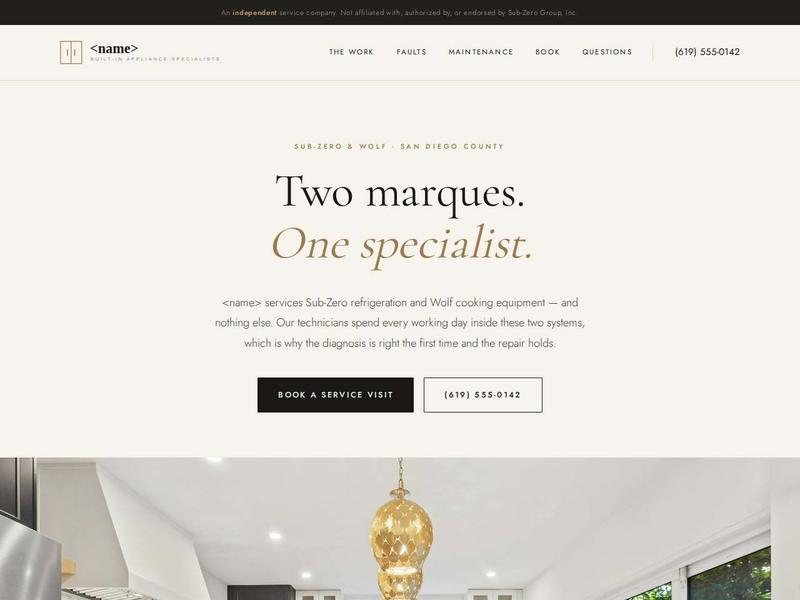
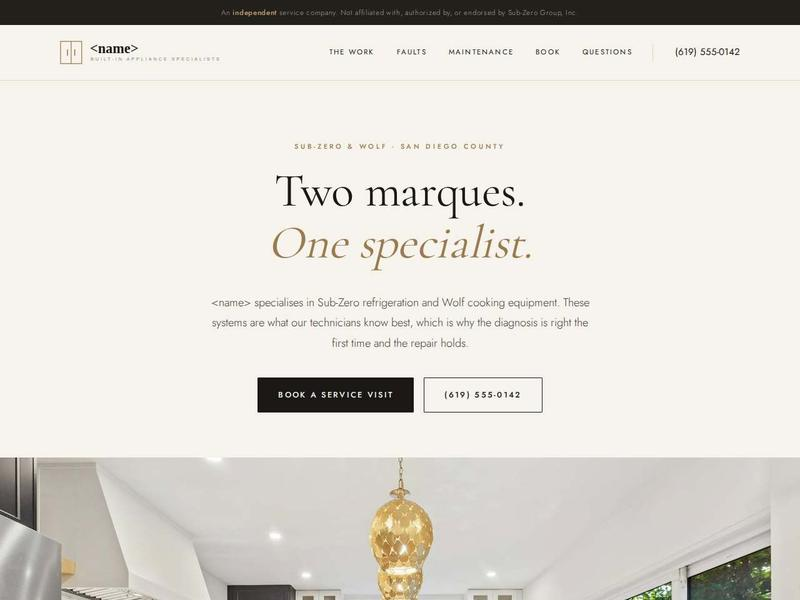
Soften the exclusivity claims on the Sub-Zero and Wolf site
The copy asserted that the company services these two marques and nothing
else, which is a stronger claim than the positioning needs and is awkward to
walk back if the business takes other work. Reworded throughout to read as
specialism rather than exclusion:

  hero        "services ... and nothing else" -> "specialises in ..."
  meta        "technicians who work on nothing else" -> "who specialise in them"
  figures     "Marques, no others" -> "Marques we specialise in";
              "Years on these two brands" -> "Years with these marques"
  areas       "stocked for two marques rather than twenty" ->
              "stocked for the equipment we specialise in"
  parts FAQ   "we work on only two brands" -> "these marques are our focus"
  closing     dropped "two" from "these two marques"

The specialist positioning, the headline and the independence disclaimers are
unchanged.

Claude-Session: https://claude.ai/code/session_01JC18axCyewa22Ah88sQUmd

Changed region(s): [[0.2812, 0.48, 0.75, 0.6]]

diff --git a/sites/appliance-04-subzero-wolf/index.html b/sites/appliance-04-subzero-wolf/index.html
@@ -4,7 +4,7 @@
 <meta charset="utf-8">
 <meta name="viewport" content="width=device-width, initial-scale=1">
 <title>Sub-Zero &amp; Wolf Repair and Maintenance, San Diego County | &lt;name&gt;</title>
-<meta name="description" content="Independent specialists in Sub-Zero and Wolf repair and scheduled maintenance across San Diego County. Built-in refrigeration, professional ranges and wine storage, serviced by technicians who work on nothing else.">
+<meta name="description" content="Independent specialists in Sub-Zero and Wolf repair and scheduled maintenance across San Diego County. Built-in refrigeration, professional ranges and wine storage, serviced by technicians who specialise in them.">
 <link rel="icon" href="assets/favicon.svg" type="image/svg+xml">
 <meta property="og:title" content="Sub-Zero &amp; Wolf Repair and Maintenance, San Diego County | <name>">
 <meta property="og:description" content="Independent specialists in Sub-Zero and Wolf built-in appliance repair and maintenance.">
@@ -54,7 +54,7 @@
   <div class="wrap">
     <p class="eyebrow">Sub-Zero &amp; Wolf · San Diego County</p>
     <h1>Two marques. <em>One specialist.</em></h1>
-    <p class="lead">&lt;name&gt; services Sub-Zero refrigeration and Wolf cooking equipment — and nothing else. Our technicians spend every working day inside these two systems, which is why the diagnosis is right the first time and the repair holds.</p>
+    <p class="lead">&lt;name&gt; specialises in Sub-Zero refrigeration and Wolf cooking equipment. These systems are what our technicians know best, which is why the diagnosis is right the first time and the repair holds.</p>
     <div class="hero-actions">
       <a class="btn btn-ink" href="#book">Book a service visit</a>
       <a class="btn btn-outline" href="tel:+16195550142">(619) 555-0142</a>
@@ -67,8 +67,8 @@
 
 <section class="creds" style="padding:0">
   <div class="wrap">
-    <div><b>18</b><span>Years on these two brands</span></div>
-    <div><b>2</b><span>Marques, no others</span></div>
+    <div><b>18</b><span>Years with these marques</span></div>
+    <div><b>2</b><span>Marques we specialise in</span></div>
     <div><b>1 yr</b><span>Warranty on our labour</span></div>
     <div><b>4.9</b><span>From 164 reviews</span></div>
   </div>
@@ -296,7 +296,7 @@
     <div>
       <p class="eyebrow">Where we call</p>
       <h2>Across San Diego County</h2>
-      <p>We keep a deliberately small round so that appointments stay punctual and the vans stay stocked for two marques rather than twenty.</p>
+      <p>We keep a deliberately small round so that appointments stay punctual and the vans stay stocked for the equipment we specialise in.</p>
       <ul class="area-list">
         <li>La Jolla</li><li>Del Mar</li><li>Rancho Santa Fe</li><li>Solana Beach</li>
         <li>Carmel Valley</li><li>Encinitas</li><li>Carlsbad</li><li>Coronado</li>
@@ -330,7 +330,7 @@
       </details>
       <details>
         <summary>Do you carry parts on the van?</summary>
-        <div class="answer">For the common failures on both marques, yes — gaskets, igniters, spark modules, fans, sensors, filters and the control boards that fail most often. Because we work on only two brands, our stock goes deep rather than wide. Anything rarer is typically here within two to four working days.</div>
+        <div class="answer">For the common failures on both marques, yes — gaskets, igniters, spark modules, fans, sensors, filters and the control boards that fail most often. Because these marques are our focus, our stock goes deep rather than wide. Anything rarer is typically here within two to four working days.</div>
       </details>
       <details>
         <summary>Will you take the unit out of the cabinetry?</summary>
@@ -347,7 +347,7 @@
 <section class="closing">
   <div class="wrap">
     <h2>Let us look at it properly</h2>
-    <p>Speak to someone who works on these two marques every day. Monday to Friday, 8am to 6pm; Saturday mornings.</p>
+    <p>Speak to someone who works on these marques every day. Monday to Friday, 8am to 6pm; Saturday mornings.</p>
     <div class="closing-actions">
       <a class="btn btn-bone" href="tel:+16195550142">Call (619) 555-0142</a>
       <a class="btn btn-outline" style="border-color:#B5ADA0;color:#F6F3ED" href="#book">Book online</a>
